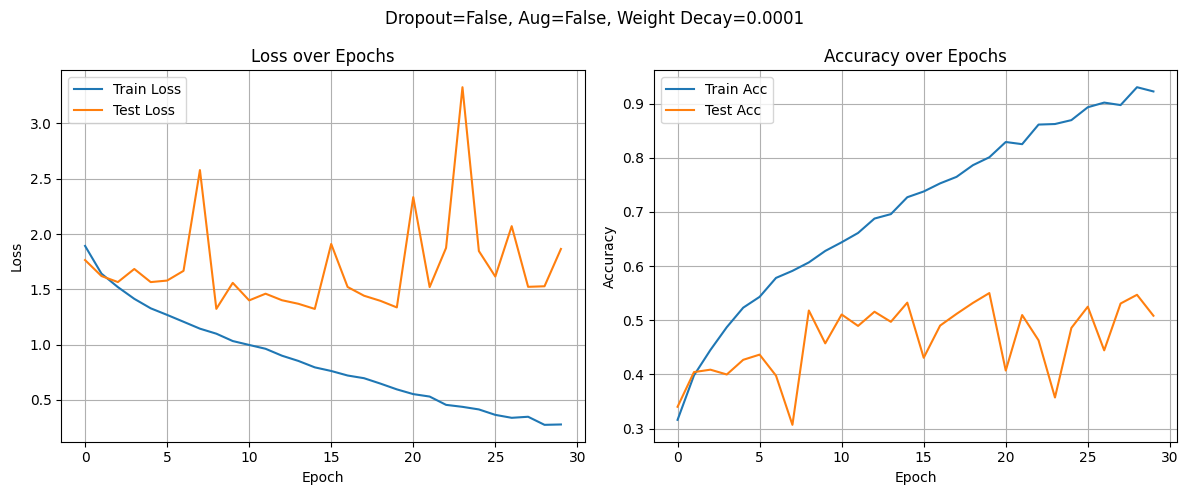
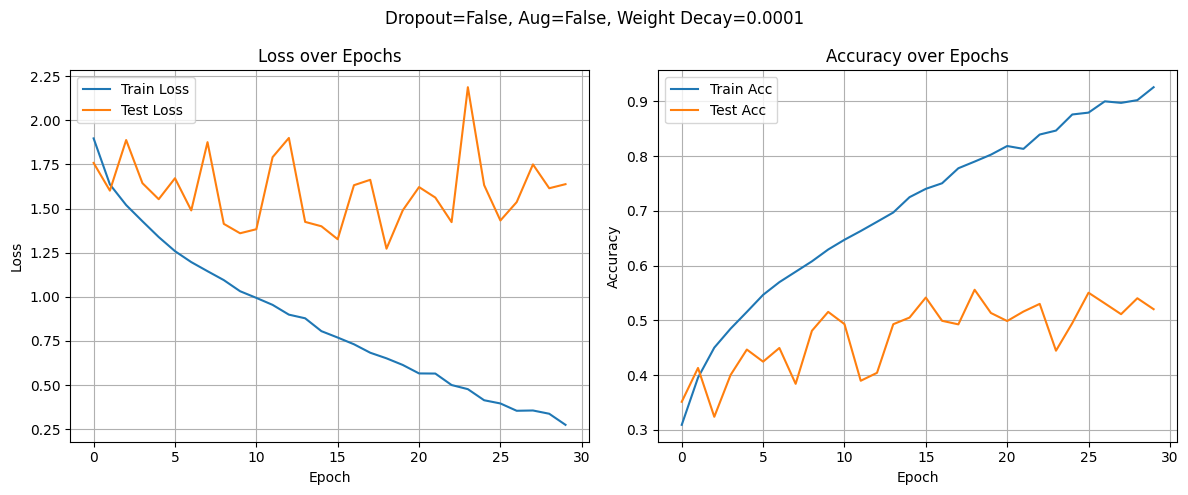
modified file

diff --git a/results/result.md b/results/result.md
@@ -153,36 +153,36 @@
 - Weight decay만 적용한 모델
 
 ```
-[Epoch 1] Train Loss: 1.8925, Acc: 0.3160 | Test Loss: 1.7647, Acc: 0.3402
-[Epoch 2] Train Loss: 1.6417, Acc: 0.3982 | Test Loss: 1.6201, Acc: 0.4042
-[Epoch 3] Train Loss: 1.5202, Acc: 0.4450 | Test Loss: 1.5657, Acc: 0.4087
-[Epoch 4] Train Loss: 1.4142, Acc: 0.4872 | Test Loss: 1.6840, Acc: 0.3998
-[Epoch 5] Train Loss: 1.3285, Acc: 0.5232 | Test Loss: 1.5655, Acc: 0.4269
-[Epoch 6] Train Loss: 1.2689, Acc: 0.5432 | Test Loss: 1.5793, Acc: 0.4365
-[Epoch 7] Train Loss: 1.2070, Acc: 0.5782 | Test Loss: 1.6672, Acc: 0.3976
-[Epoch 8] Train Loss: 1.1444, Acc: 0.5912 | Test Loss: 2.5780, Acc: 0.3068
-[Epoch 9] Train Loss: 1.0991, Acc: 0.6068 | Test Loss: 1.3235, Acc: 0.5180
-[Epoch 10] Train Loss: 1.0326, Acc: 0.6280 | Test Loss: 1.5586, Acc: 0.4573
-[Epoch 11] Train Loss: 0.9973, Acc: 0.6440 | Test Loss: 1.4001, Acc: 0.5106
-[Epoch 12] Train Loss: 0.9627, Acc: 0.6612 | Test Loss: 1.4605, Acc: 0.4895
-[Epoch 13] Train Loss: 0.9001, Acc: 0.6878 | Test Loss: 1.4015, Acc: 0.5157
-[Epoch 14] Train Loss: 0.8528, Acc: 0.6960 | Test Loss: 1.3694, Acc: 0.4971
-[Epoch 15] Train Loss: 0.7947, Acc: 0.7272 | Test Loss: 1.3230, Acc: 0.5325
-[Epoch 16] Train Loss: 0.7620, Acc: 0.7378 | Test Loss: 1.9103, Acc: 0.4307
-[Epoch 17] Train Loss: 0.7211, Acc: 0.7528 | Test Loss: 1.5213, Acc: 0.4901
-[Epoch 18] Train Loss: 0.6968, Acc: 0.7648 | Test Loss: 1.4423, Acc: 0.5117
-[Epoch 19] Train Loss: 0.6480, Acc: 0.7864 | Test Loss: 1.3961, Acc: 0.5320
-[Epoch 20] Train Loss: 0.5958, Acc: 0.8010 | Test Loss: 1.3366, Acc: 0.5502
-[Epoch 21] Train Loss: 0.5529, Acc: 0.8292 | Test Loss: 2.3333, Acc: 0.4071
-[Epoch 22] Train Loss: 0.5308, Acc: 0.8252 | Test Loss: 1.5204, Acc: 0.5096
-[Epoch 23] Train Loss: 0.4558, Acc: 0.8614 | Test Loss: 1.8744, Acc: 0.4629
-[Epoch 24] Train Loss: 0.4378, Acc: 0.8624 | Test Loss: 3.3271, Acc: 0.3573
-[Epoch 25] Train Loss: 0.4145, Acc: 0.8696 | Test Loss: 1.8462, Acc: 0.4858
-[Epoch 26] Train Loss: 0.3653, Acc: 0.8934 | Test Loss: 1.6156, Acc: 0.5250
-[Epoch 27] Train Loss: 0.3387, Acc: 0.9020 | Test Loss: 2.0711, Acc: 0.4444
-[Epoch 28] Train Loss: 0.3482, Acc: 0.8974 | Test Loss: 1.5227, Acc: 0.5309
-[Epoch 29] Train Loss: 0.2751, Acc: 0.9304 | Test Loss: 1.5278, Acc: 0.5470
-[Epoch 30] Train Loss: 0.2785, Acc: 0.9226 | Test Loss: 1.8650, Acc: 0.5083
+[Epoch 1] Train Loss: 1.8975, Acc: 0.3092 | Test Loss: 1.7585, Acc: 0.3513
+[Epoch 2] Train Loss: 1.6368, Acc: 0.3954 | Test Loss: 1.6014, Acc: 0.4131
+[Epoch 3] Train Loss: 1.5197, Acc: 0.4502 | Test Loss: 1.8882, Acc: 0.3239
+[Epoch 4] Train Loss: 1.4281, Acc: 0.4848 | Test Loss: 1.6438, Acc: 0.4002
+[Epoch 5] Train Loss: 1.3386, Acc: 0.5154 | Test Loss: 1.5530, Acc: 0.4467
+[Epoch 6] Train Loss: 1.2586, Acc: 0.5466 | Test Loss: 1.6717, Acc: 0.4246
+[Epoch 7] Train Loss: 1.1967, Acc: 0.5698 | Test Loss: 1.4894, Acc: 0.4496
+[Epoch 8] Train Loss: 1.1451, Acc: 0.5888 | Test Loss: 1.8762, Acc: 0.3841
+[Epoch 9] Train Loss: 1.0947, Acc: 0.6078 | Test Loss: 1.4133, Acc: 0.4810
+[Epoch 10] Train Loss: 1.0317, Acc: 0.6294 | Test Loss: 1.3600, Acc: 0.5155
+[Epoch 11] Train Loss: 0.9939, Acc: 0.6472 | Test Loss: 1.3829, Acc: 0.4932
+[Epoch 12] Train Loss: 0.9543, Acc: 0.6632 | Test Loss: 1.7911, Acc: 0.3897
+[Epoch 13] Train Loss: 0.8990, Acc: 0.6800 | Test Loss: 1.8999, Acc: 0.4042
+[Epoch 14] Train Loss: 0.8783, Acc: 0.6970 | Test Loss: 1.4244, Acc: 0.4930
+[Epoch 15] Train Loss: 0.8054, Acc: 0.7250 | Test Loss: 1.3996, Acc: 0.5051
+[Epoch 16] Train Loss: 0.7693, Acc: 0.7402 | Test Loss: 1.3262, Acc: 0.5417
+[Epoch 17] Train Loss: 0.7312, Acc: 0.7504 | Test Loss: 1.6323, Acc: 0.4992
+[Epoch 18] Train Loss: 0.6832, Acc: 0.7778 | Test Loss: 1.6628, Acc: 0.4927
+[Epoch 19] Train Loss: 0.6515, Acc: 0.7900 | Test Loss: 1.2726, Acc: 0.5559
+[Epoch 20] Train Loss: 0.6139, Acc: 0.8026 | Test Loss: 1.4900, Acc: 0.5135
+[Epoch 21] Train Loss: 0.5660, Acc: 0.8184 | Test Loss: 1.6217, Acc: 0.4988
+[Epoch 22] Train Loss: 0.5653, Acc: 0.8132 | Test Loss: 1.5622, Acc: 0.5161
+[Epoch 23] Train Loss: 0.5002, Acc: 0.8394 | Test Loss: 1.4231, Acc: 0.5301
+[Epoch 24] Train Loss: 0.4769, Acc: 0.8466 | Test Loss: 2.1874, Acc: 0.4446
+[Epoch 25] Train Loss: 0.4140, Acc: 0.8760 | Test Loss: 1.6329, Acc: 0.4949
+[Epoch 26] Train Loss: 0.3958, Acc: 0.8794 | Test Loss: 1.4323, Acc: 0.5505
+[Epoch 27] Train Loss: 0.3544, Acc: 0.9000 | Test Loss: 1.5364, Acc: 0.5310
+[Epoch 28] Train Loss: 0.3561, Acc: 0.8972 | Test Loss: 1.7501, Acc: 0.5113
+[Epoch 29] Train Loss: 0.3376, Acc: 0.9022 | Test Loss: 1.6150, Acc: 0.5404
+[Epoch 30] Train Loss: 0.2747, Acc: 0.9258 | Test Loss: 1.6381, Acc: 0.5204
 ```
 
 ---
@@ -192,36 +192,36 @@
 - run_experiment(dropout=True, use_aug=True, weight_decay=0.0)
 
 ```
-[Epoch 1] Train Loss: 1.8925, Acc: 0.3160 | Test Loss: 1.7647, Acc: 0.3402
-[Epoch 2] Train Loss: 1.6417, Acc: 0.3982 | Test Loss: 1.6201, Acc: 0.4042
-[Epoch 3] Train Loss: 1.5202, Acc: 0.4450 | Test Loss: 1.5657, Acc: 0.4087
-[Epoch 4] Train Loss: 1.4142, Acc: 0.4872 | Test Loss: 1.6840, Acc: 0.3998
-[Epoch 5] Train Loss: 1.3285, Acc: 0.5232 | Test Loss: 1.5655, Acc: 0.4269
-[Epoch 6] Train Loss: 1.2689, Acc: 0.5432 | Test Loss: 1.5793, Acc: 0.4365
-[Epoch 7] Train Loss: 1.2070, Acc: 0.5782 | Test Loss: 1.6672, Acc: 0.3976
-[Epoch 8] Train Loss: 1.1444, Acc: 0.5912 | Test Loss: 2.5780, Acc: 0.3068
-[Epoch 9] Train Loss: 1.0991, Acc: 0.6068 | Test Loss: 1.3235, Acc: 0.5180
-[Epoch 10] Train Loss: 1.0326, Acc: 0.6280 | Test Loss: 1.5586, Acc: 0.4573
-[Epoch 11] Train Loss: 0.9973, Acc: 0.6440 | Test Loss: 1.4001, Acc: 0.5106
-[Epoch 12] Train Loss: 0.9627, Acc: 0.6612 | Test Loss: 1.4605, Acc: 0.4895
-[Epoch 13] Train Loss: 0.9001, Acc: 0.6878 | Test Loss: 1.4015, Acc: 0.5157
-[Epoch 14] Train Loss: 0.8528, Acc: 0.6960 | Test Loss: 1.3694, Acc: 0.4971
-[Epoch 15] Train Loss: 0.7947, Acc: 0.7272 | Test Loss: 1.3230, Acc: 0.5325
-[Epoch 16] Train Loss: 0.7620, Acc: 0.7378 | Test Loss: 1.9103, Acc: 0.4307
-[Epoch 17] Train Loss: 0.7211, Acc: 0.7528 | Test Loss: 1.5213, Acc: 0.4901
-[Epoch 18] Train Loss: 0.6968, Acc: 0.7648 | Test Loss: 1.4423, Acc: 0.5117
-[Epoch 19] Train Loss: 0.6480, Acc: 0.7864 | Test Loss: 1.3961, Acc: 0.5320
-[Epoch 20] Train Loss: 0.5958, Acc: 0.8010 | Test Loss: 1.3366, Acc: 0.5502
-[Epoch 21] Train Loss: 0.5529, Acc: 0.8292 | Test Loss: 2.3333, Acc: 0.4071
-[Epoch 22] Train Loss: 0.5308, Acc: 0.8252 | Test Loss: 1.5204, Acc: 0.5096
-[Epoch 23] Train Loss: 0.4558, Acc: 0.8614 | Test Loss: 1.8744, Acc: 0.4629
-[Epoch 24] Train Loss: 0.4378, Acc: 0.8624 | Test Loss: 3.3271, Acc: 0.3573
-[Epoch 25] Train Loss: 0.4145, Acc: 0.8696 | Test Loss: 1.8462, Acc: 0.4858
-[Epoch 26] Train Loss: 0.3653, Acc: 0.8934 | Test Loss: 1.6156, Acc: 0.5250
-[Epoch 27] Train Loss: 0.3387, Acc: 0.9020 | Test Loss: 2.0711, Acc: 0.4444
-[Epoch 28] Train Loss: 0.3482, Acc: 0.8974 | Test Loss: 1.5227, Acc: 0.5309
-[Epoch 29] Train Loss: 0.2751, Acc: 0.9304 | Test Loss: 1.5278, Acc: 0.5470
-[Epoch 30] Train Loss: 0.2785, Acc: 0.9226 | Test Loss: 1.8650, Acc: 0.5083
+[Epoch 1] Train Loss: 2.0531, Acc: 0.2324 | Test Loss: 1.8728, Acc: 0.3095
+[Epoch 2] Train Loss: 1.8634, Acc: 0.2876 | Test Loss: 1.7334, Acc: 0.3425
+[Epoch 3] Train Loss: 1.8086, Acc: 0.3130 | Test Loss: 1.7956, Acc: 0.3231
+[Epoch 4] Train Loss: 1.7318, Acc: 0.3434 | Test Loss: 1.7417, Acc: 0.3601
+[Epoch 5] Train Loss: 1.6894, Acc: 0.3604 | Test Loss: 1.7846, Acc: 0.3362
+[Epoch 6] Train Loss: 1.6439, Acc: 0.3800 | Test Loss: 1.5836, Acc: 0.3980
+[Epoch 7] Train Loss: 1.6093, Acc: 0.3972 | Test Loss: 1.9040, Acc: 0.3229
+[Epoch 8] Train Loss: 1.5524, Acc: 0.4090 | Test Loss: 1.7865, Acc: 0.3411
+[Epoch 9] Train Loss: 1.5333, Acc: 0.4152 | Test Loss: 1.8764, Acc: 0.3414
+[Epoch 10] Train Loss: 1.5165, Acc: 0.4296 | Test Loss: 1.4860, Acc: 0.4279
+[Epoch 11] Train Loss: 1.4947, Acc: 0.4500 | Test Loss: 1.5700, Acc: 0.4380
+[Epoch 12] Train Loss: 1.4573, Acc: 0.4526 | Test Loss: 1.6442, Acc: 0.3979
+[Epoch 13] Train Loss: 1.4474, Acc: 0.4584 | Test Loss: 1.5861, Acc: 0.4166
+[Epoch 14] Train Loss: 1.4160, Acc: 0.4750 | Test Loss: 1.6152, Acc: 0.4356
+[Epoch 15] Train Loss: 1.4254, Acc: 0.4632 | Test Loss: 1.4571, Acc: 0.4685
+[Epoch 16] Train Loss: 1.3990, Acc: 0.4882 | Test Loss: 1.3564, Acc: 0.5009
+[Epoch 17] Train Loss: 1.3906, Acc: 0.4800 | Test Loss: 1.4595, Acc: 0.4658
+[Epoch 18] Train Loss: 1.3726, Acc: 0.5062 | Test Loss: 1.4401, Acc: 0.4667
+[Epoch 19] Train Loss: 1.3457, Acc: 0.4982 | Test Loss: 1.3617, Acc: 0.4968
+[Epoch 20] Train Loss: 1.3271, Acc: 0.5196 | Test Loss: 1.5048, Acc: 0.4612
+[Epoch 21] Train Loss: 1.3171, Acc: 0.5236 | Test Loss: 2.2510, Acc: 0.3571
+[Epoch 22] Train Loss: 1.2966, Acc: 0.5204 | Test Loss: 1.5995, Acc: 0.4528
+[Epoch 23] Train Loss: 1.3133, Acc: 0.5166 | Test Loss: 1.6327, Acc: 0.4492
+[Epoch 24] Train Loss: 1.3026, Acc: 0.5316 | Test Loss: 2.0476, Acc: 0.3729
+[Epoch 25] Train Loss: 1.2664, Acc: 0.5400 | Test Loss: 1.3116, Acc: 0.5287
+[Epoch 26] Train Loss: 1.2510, Acc: 0.5440 | Test Loss: 1.2485, Acc: 0.5461
+[Epoch 27] Train Loss: 1.2620, Acc: 0.5398 | Test Loss: 1.8818, Acc: 0.4202
+[Epoch 28] Train Loss: 1.2271, Acc: 0.5436 | Test Loss: 1.3823, Acc: 0.5272
+[Epoch 29] Train Loss: 1.2340, Acc: 0.5588 | Test Loss: 2.0934, Acc: 0.3921
+[Epoch 30] Train Loss: 1.2489, Acc: 0.5442 | Test Loss: 1.4094, Acc: 0.4961
 ```
 
 ## Experiment G: Data Augmentation + Weight Decay
